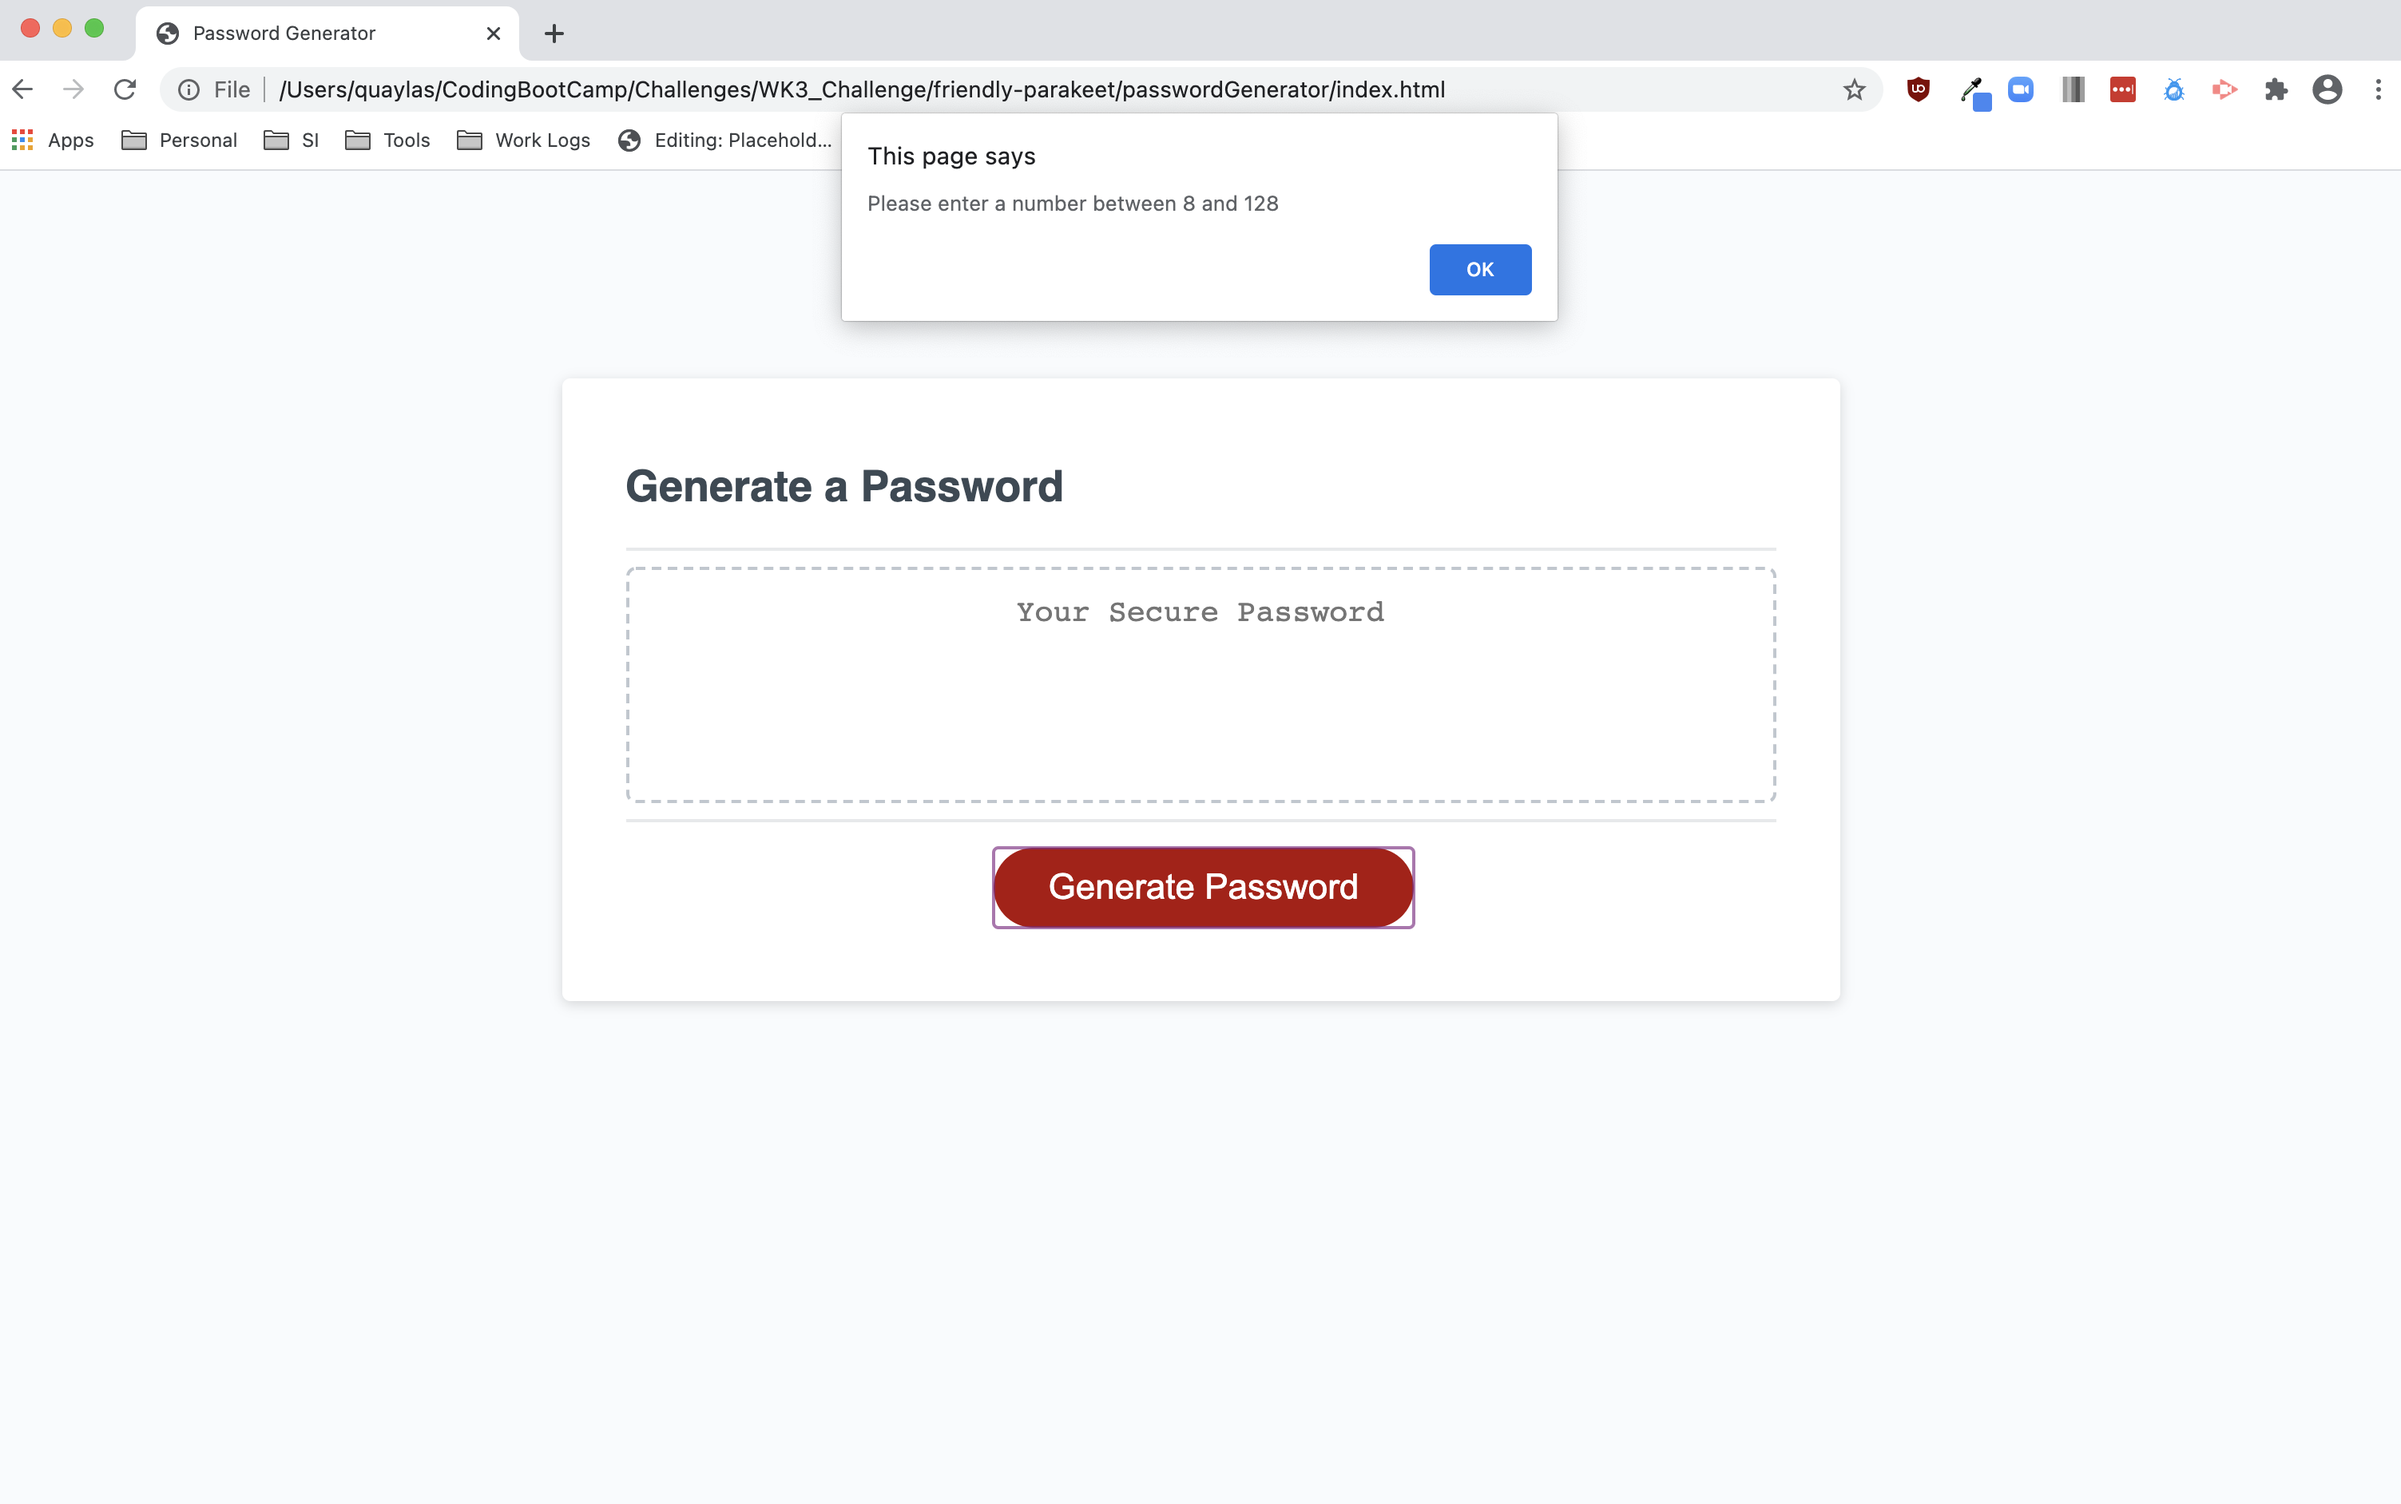
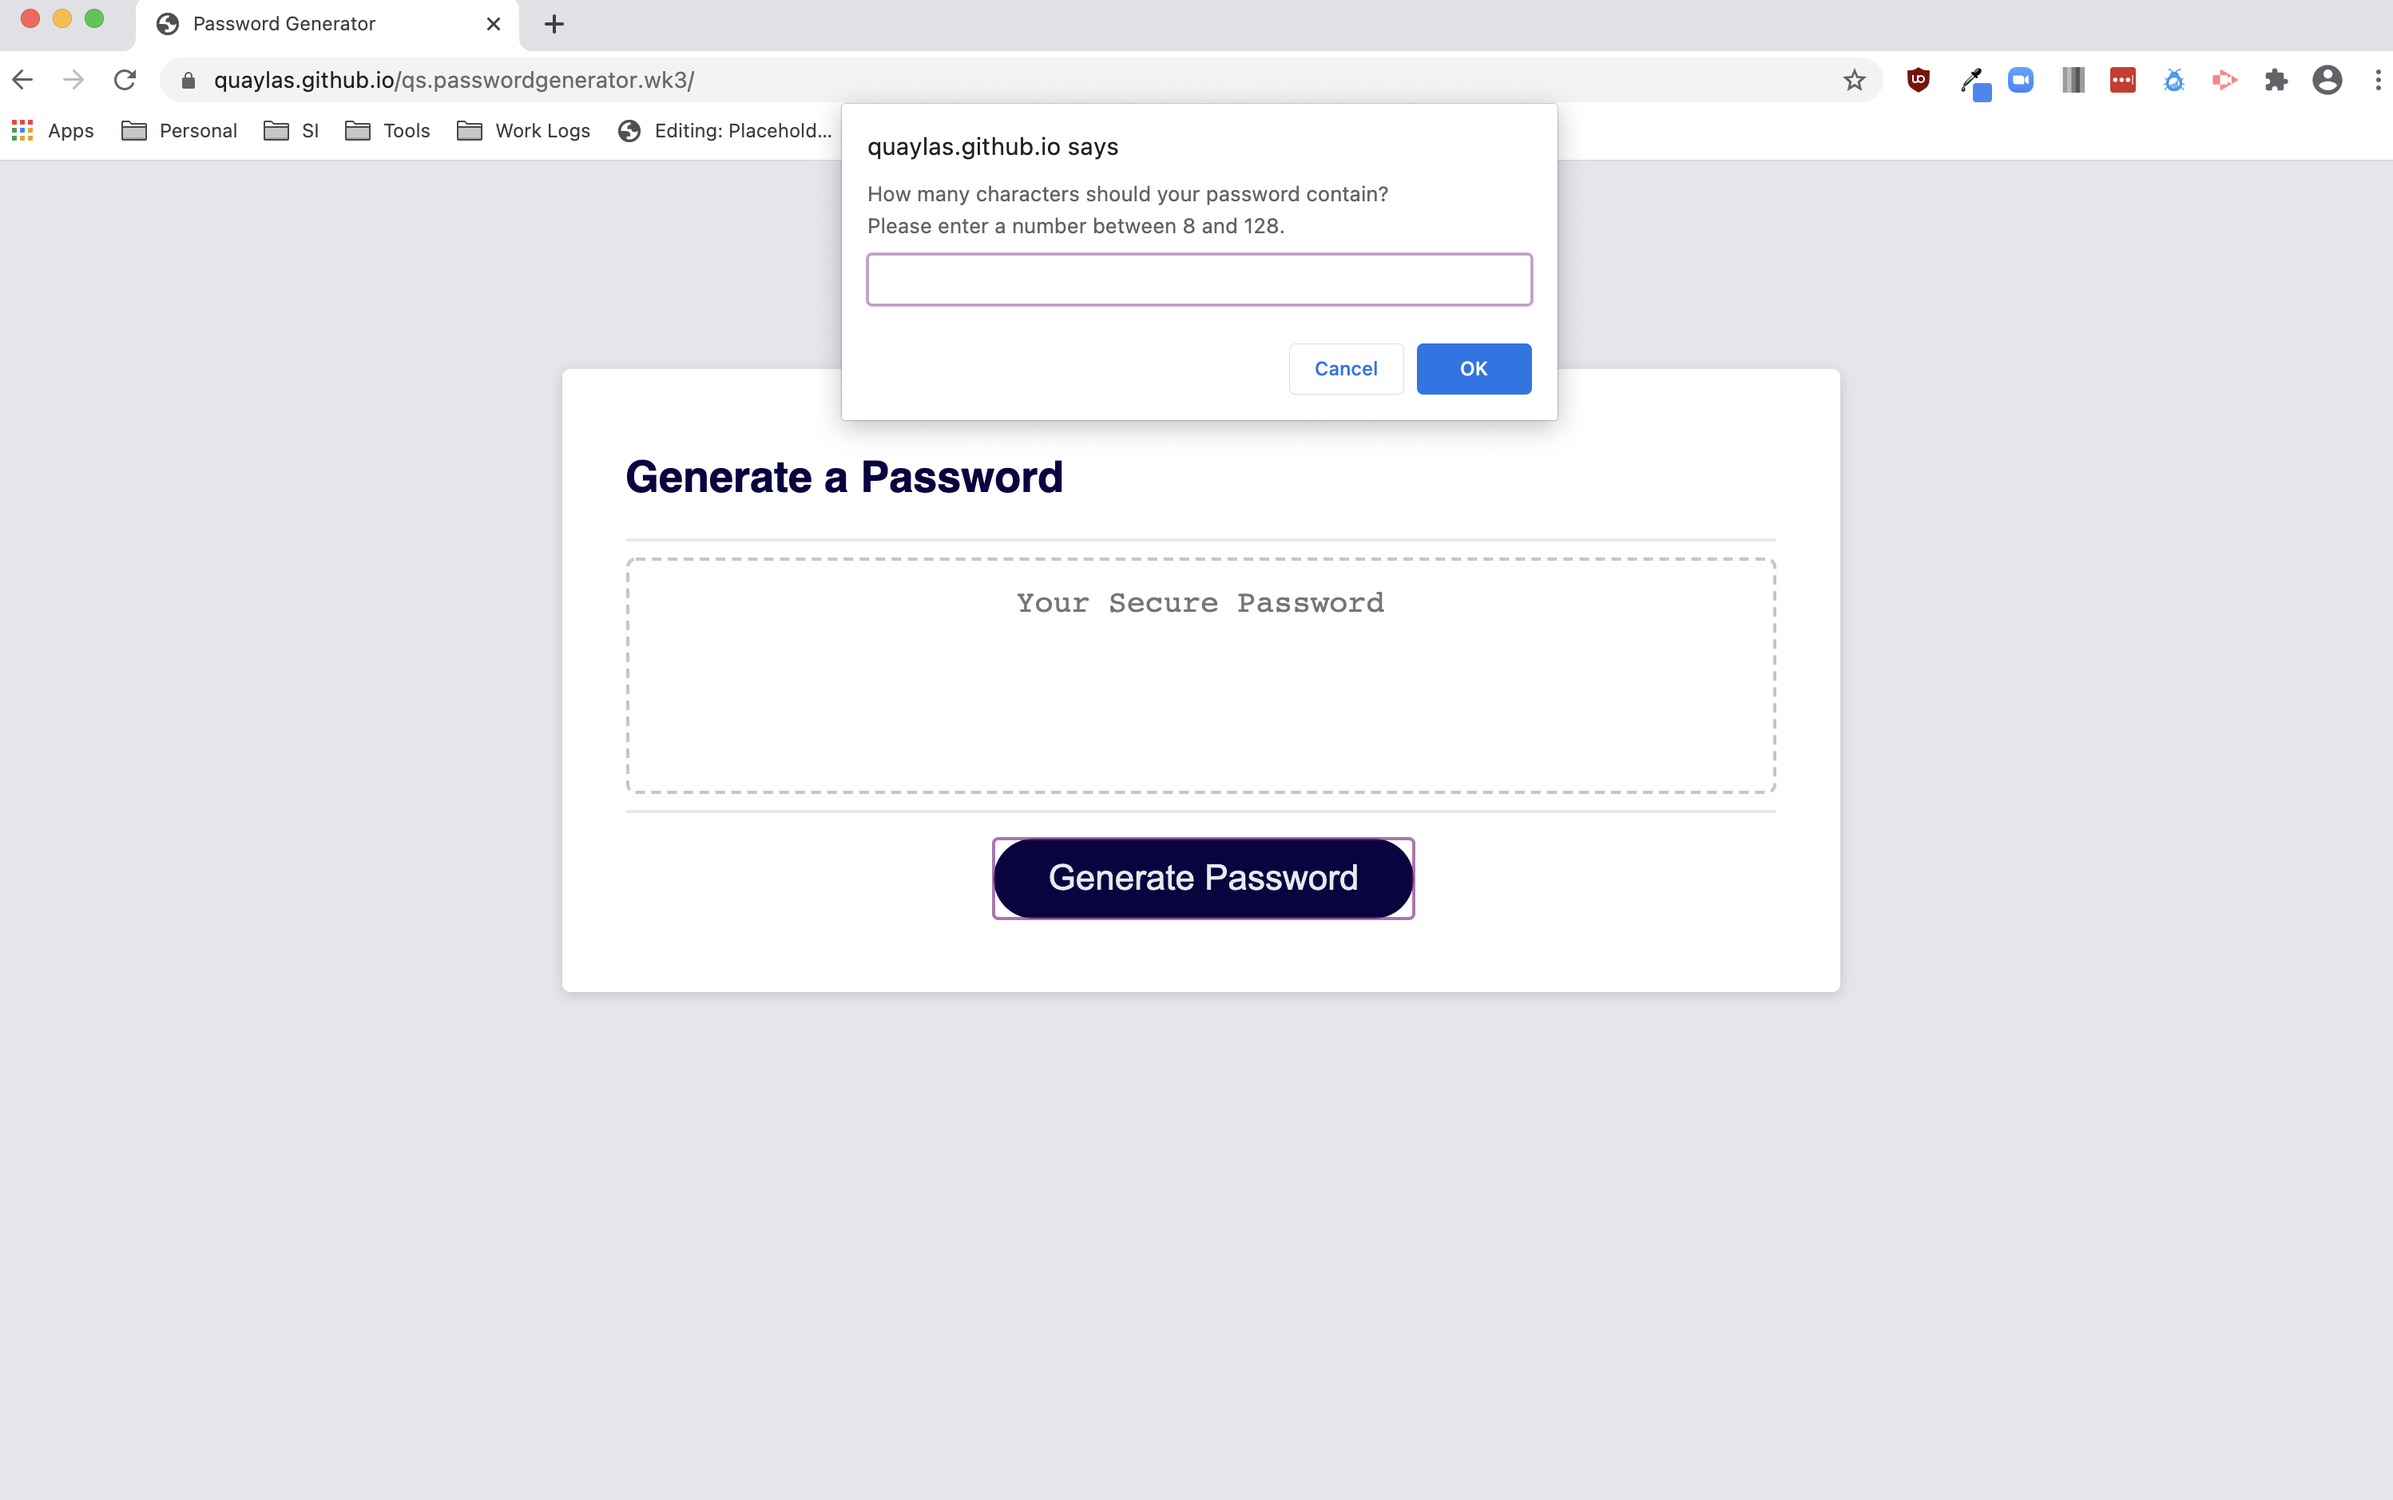
updated screenshots in README.md

Changed region(s): [[0.0, 0.0, 1.0, 0.6794], [0.4035, 0.5559, 0.5898, 0.6177], [0.4035, 0.3706, 0.5898, 0.4324]]

diff --git a/README.md b/README.md
@@ -74,5 +74,5 @@ THEN the password is either displayed in an alert or written to the page
 
 375px X 667px
 
-![Image of mobile view with prompt for password length](./assets/images/mobileLengthPrompt.png)
-![Image of mobile view with prompt to enter a valid password length](./assets/images/mobileLengthValidationPrompt.png)
+![Image of mobile view with prompt for password length](./assets/images/mobileLengthPrompt.PNG)
+![Image of mobile view with prompt to enter a valid password length](./assets/images/mobileLengthValidationPrompt.PNG)
